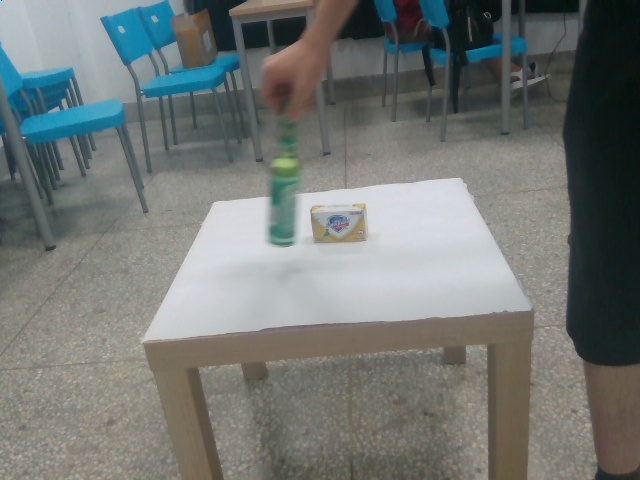
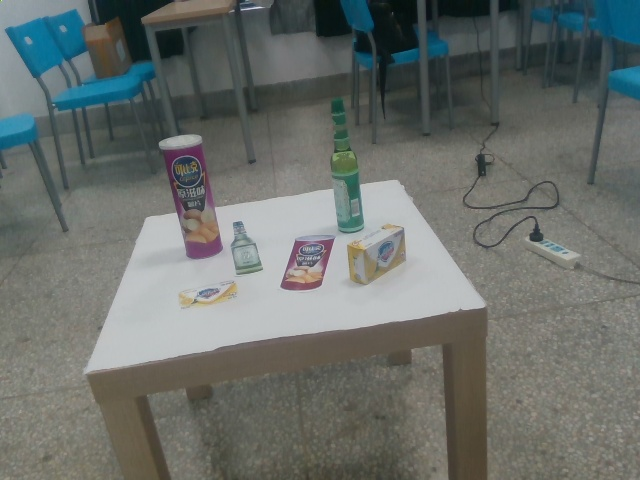
完成了方桌信息输出

diff --git a/QT.py b/QT.py
@@ -72,7 +72,7 @@ def ReadData():
 
 class Ui_MainWindow(object):
     count = -1
-    objectnum = 2
+    objectnum = 3
 
     def setupUi(self, MainWindow):
         MainWindow.setObjectName("MainWindow")
@@ -327,27 +327,32 @@ class Ui_MainWindow(object):
         self.label_33.setText(_translate("MainWindow", "目标4朝向角Angle"))
         self.label_35.setText(_translate("MainWindow", "目标4距离Radius"))
 
-    def display(self, data):
+    def display(self, datas):
         '''
         输入：data：物品数*4数组
         '''
         _translate = QtCore.QCoreApplication.translate
-        self.X1.setText(_translate("MainWindow", str(data[[0]][0])))
-        self.X2.setText(_translate("MainWindow", str(data[[1]][0])))
-        self.X3.setText(_translate("MainWindow", str(data[[2]][0])))
-        self.X4.setText(_translate("MainWindow", str(data[[3]][0])))
-        self.Y1.setText(_translate("MainWindow", str(data[[0]][1])))
-        self.Y2.setText(_translate("MainWindow", str(data[[1]][1])))
-        self.Y3.setText(_translate("MainWindow", str(data[[2]][1])))
-        self.Y4.setText(_translate("MainWindow", str(data[[3]][1])))
-        self.R1.setText(_translate("MainWindow", str(data[[0]][2])))
-        self.R2.setText(_translate("MainWindow", str(data[[1]][2])))
-        self.R3.setText(_translate("MainWindow", str(data[[2]][2])))
-        self.R4.setText(_translate("MainWindow", str(data[[3]][2])))
-        self.A1.setText(_translate("MainWindow", str(data[[0]][3])))
-        self.A2.setText(_translate("MainWindow", str(data[[1]][3])))
-        self.A3.setText(_translate("MainWindow", str(data[[2]][3])))
-        self.A4.setText(_translate("MainWindow", str(data[[3]][3])))
+        self.num.setText(_translate("MainWindow", str(self.objectnum)))
+        if len(datas) >= 1:
+            self.X1.setText(_translate("MainWindow", str(datas[0][0])))
+            self.Y1.setText(_translate("MainWindow", str(datas[0][1])))
+            self.R1.setText(_translate("MainWindow", str(datas[0][2])))
+            self.A1.setText(_translate("MainWindow", str(datas[0][3])))
+        if len(datas) >= 2:
+            self.X2.setText(_translate("MainWindow", str(datas[1][0])))
+            self.Y2.setText(_translate("MainWindow", str(datas[1][1])))
+            self.R2.setText(_translate("MainWindow", str(datas[1][2])))
+            self.A2.setText(_translate("MainWindow", str(datas[1][3])))
+        if len(datas) >= 3:
+            self.X3.setText(_translate("MainWindow", str(datas[2][0])))
+            self.Y3.setText(_translate("MainWindow", str(datas[2][1])))
+            self.R3.setText(_translate("MainWindow", str(datas[2][2])))
+            self.A3.setText(_translate("MainWindow", str(datas[2][3])))
+        if len(datas) >= 4:
+            self.X4.setText(_translate("MainWindow", str(datas[3][0])))
+            self.Y4.setText(_translate("MainWindow", str(datas[3][1])))
+            self.R4.setText(_translate("MainWindow", str(datas[3][2])))
+            self.A4.setText(_translate("MainWindow", str(datas[3][3])))
 
     def input2(self):
         pass
@@ -400,9 +405,10 @@ class Ui_MainWindow(object):
         threads = []
         threads.append(predict_thread(
             self.q, 'safeguard', self.numq, self.strs))
-        # threads.append(predict_thread(self.q, 'copico', self.numq))
         threads.append(predict_thread(
-            self.q, 'floral_water', self.numq, self.strs))
+            self.q, 'floral_water', self.numq, self.strs))        
+        threads.append(predict_thread(
+            self.q, 'copico', self.numq, self.strs))
         starttime = time.time()
         for th in threads:
             self.numq.put(self.count)
@@ -411,26 +417,36 @@ class Ui_MainWindow(object):
         num_done = 0
         bss = []
         ret = []
-
+        datas = []
+        
         while True:
             if ~self.q.empty():
                 bss.append(self.q.get())
                 ret.append(self.strs.get())
+                datas.append([])
                 num_done += 1
                 if num_done is self.objectnum:
                     break
         
-        for bs in bss:
+        for bs, data in zip(bss, datas):
             corners = [bs[3], bs[4], bs[7], bs[8]]
             corners = np.matmul(corners, [[640, 0], [0, 480]])
-            corners = np.append(corners, [[1],[1],[1],[1]], axis = 1)
-            corner.square_trans(Table_2D, corners, lined)
+            corners = np.append(corners, [[1], [1], [1], [1]], axis=1)
+            transed, angle = corner.square_trans(Table_2D, corners)
+            np.mean([transed[i][0] for i in range(4)])
+            data.append('%.1f' % (np.mean([transed[i][0] for i in range(4)]) / 10))  # x
+            data.append('%.1f' % (np.mean([transed[i][1] for i in range(4)]) / 10))  # y
+            data.append('')
+            data.append('%.1f' % angle)  # angle
 
         draw_predict(bss, ret, lined, self.count)
         print("        \033[0;34m用时%s秒\033[0m" % (time.time() - starttime))
         print("    \033[0;32m%s.jpg已保存\033[0m" % self.count)
         predicted = cv2.imread('JPEGImages/predict%s.jpg' % self.count, 1)
+
         self.show(predicted)
+        self.display(datas)
+
 
     def close_camera(self, camera):
         if self.timer_camera.isActive():

diff --git a/corner.py b/corner.py
@@ -263,7 +263,7 @@ def square_desk(num, x, canny, hough):
     return lined, Table_2D
 
 
-def square_trans(Table_2D: '桌子四角', corners: '物体底部四点', lined_img):
+def square_trans(Table_2D: '桌子四角', corners: '物体底部四点', lined_img=[]):
     '''
     若最后一个参数非真（调试模式），则显示图片
     '''
@@ -277,22 +277,20 @@ def square_trans(Table_2D: '桌子四角', corners: '物体底部四点', lined_
     for i in range(4):
         transed_corners[i][0] = transed_corners[i][0] / transed_corners[i][2]
         transed_corners[i][1] = transed_corners[i][1] / transed_corners[i][2]
-    print('2D = \n%s' % Table_2D)
 
-    print('M = \n%s' % M[0:3])
-    print('corners = \n%s' % corners)
-    print('multiplied = \n%s' % transed_corners)
+    a = [0 for i in range(4)]
+    for i in range(4):
+        a[i] = (int(transed_corners[i][0]), int(transed_corners[i][1]))
+    angle = np.degrees(np.arccos(
+        (a[0][0] - a[0][1]) / (((a[0][0] - a[0][1])**2 + (a[1][0] - a[1][1])**2) ** 0.5)))
 
     if len(lined_img):
         # Perspective_Transformation
         transed = cv2.warpPerspective(lined_img, M, (550, 550))
-        a = [0 for i in range(4)]
-        for i in range(4):
-            a[i] = (int(transed_corners[i][0]), int(transed_corners[i][1]))
         cv2.line(transed, a[0], a[1], (0, 255, 0), 1)
         cv2.line(transed, a[0], a[2], (0, 255, 0), 1)
         cv2.line(transed, a[1], a[3], (0, 255, 0), 1)
         cv2.line(transed, a[2], a[3], (0, 255, 0), 1)
-        # cv2.imshow('perspective', transed)
+        cv2.imshow('perspective', transed)
 
-    return transed_corners
+    return transed_corners, angle

diff --git a/yolo6D/Predict.py b/yolo6D/Predict.py
@@ -152,7 +152,7 @@ class predict_thread(threading.Thread):
         self.q = q
         self.name = name
         self.numq = numq
-        self.strs = strs
+        self.strs = strs  # 物品名称，识别率（字符串）
 
     def run(self):
         num = self.numq.get()
